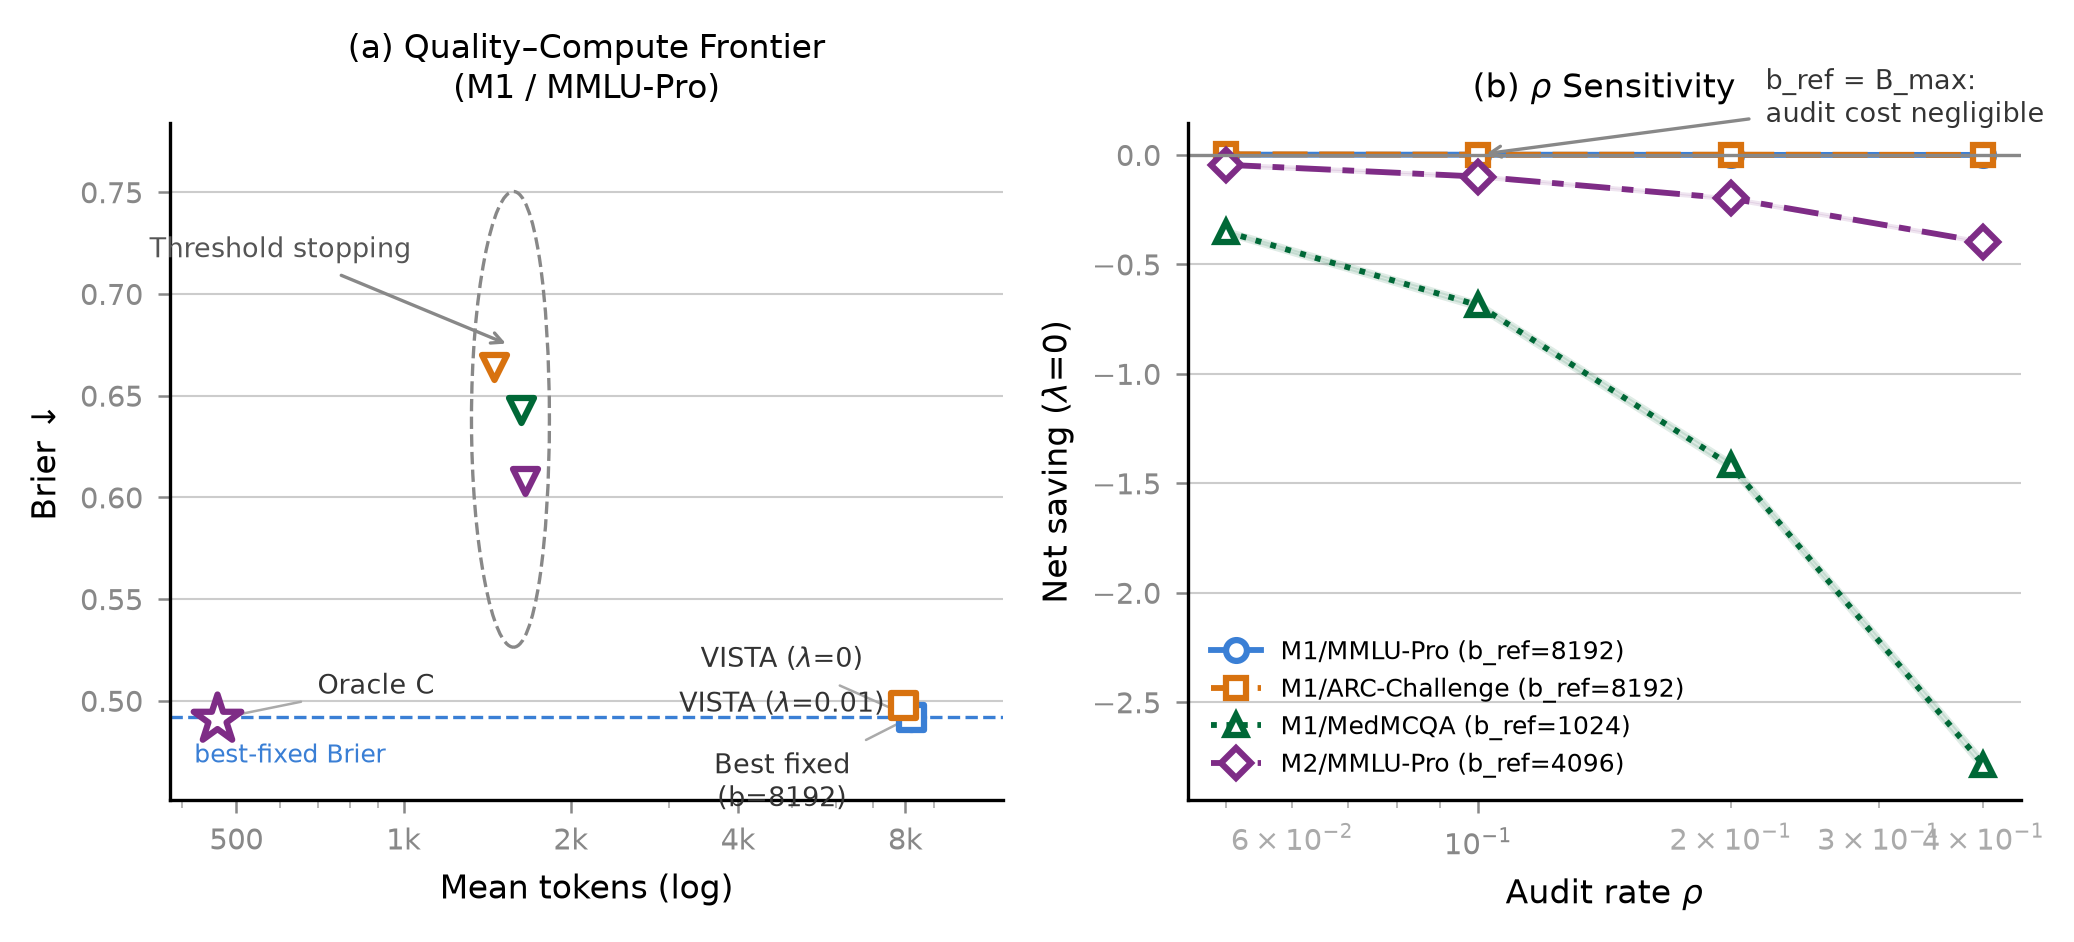
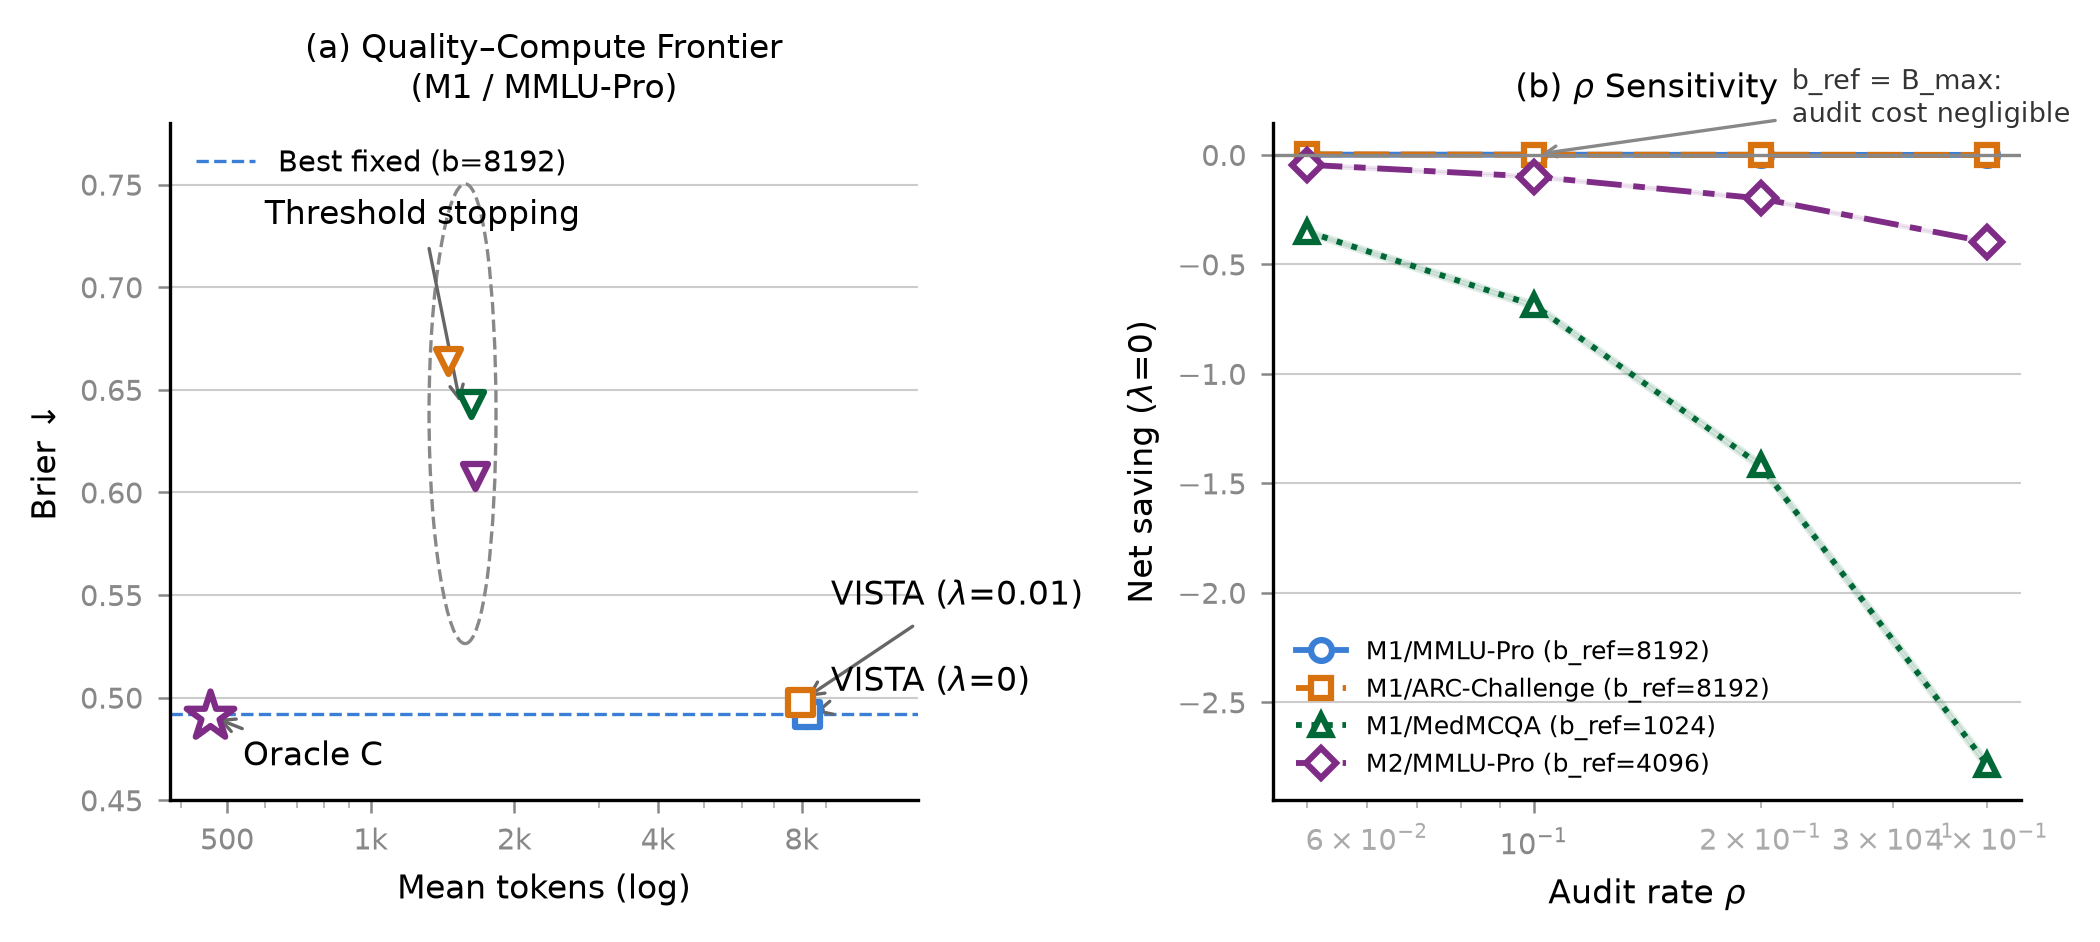
fix(fig): panel(a) label redesign — annotate+arrowprops, legend for axhline
Remove all internal text labels from panel (a). Replace with explicit
annotate() calls at user-specified data coordinates:
  - 'Threshold stopping': xy=(1550,0.64) → xytext=(600,0.735)
  - 'VISTA (λ=0.01)': xy=(7931,0.498) → xytext=(9200,0.545)
  - 'VISTA (λ=0)': xy=(8191,0.492) → xytext=(9200,0.503)
  - 'Oracle C': xy=(461,0.4911) → xytext=(540,0.467)
Best fixed axhline registered in legend; 'best-fixed Brier' text removed.
ylim=(0.45,0.78), xlim=(380,14000). Save with bbox_inches='tight'.
mvtcs.bib deepseekr1 already fixed (year=2025, doi without prefix).

Claude-Session: https://claude.ai/code/session_019oJJMoqXDBDEdjjn8k838V

diff --git a/figures/fig_frontier_audit.py b/figures/fig_frontier_audit.py
@@ -137,75 +137,65 @@ ell = Ellipse(
 )
 ax_a.add_patch(ell)
 
-# Annotation for threshold cluster — text kept below y=0.73
+# --- horizontal dashed line — registered in legend instead of inline text ---
+best_brier = 0.492
+best_line = ax_a.axhline(
+    best_brier, color='#3a7fd5', linewidth=0.8, linestyle='--',
+    zorder=2, label='Best fixed (b=8192)',
+)
+
+# --- all text labels as explicit annotate+arrowprops ---
+# Threshold stopping cluster
 ax_a.annotate(
     'Threshold stopping',
-    xy=(cx, max(ty) + 0.010),
-    xytext=(600, 0.718),
-    xycoords='data',
-    textcoords='data',
-    fontsize=6.5,
-    color='#555555',
-    arrowprops=dict(
-        arrowstyle='->',
-        color='#888888',
-        lw=0.8,
-    ),
-    ha='center',
+    xy=(1550, 0.64), xytext=(600, 0.735),
+    xycoords='data', textcoords='data',
+    arrowprops=dict(arrowstyle='->', lw=0.8, color='0.4'),
+    fontsize=8, ha='left', va='center',
 )
 
-# --- horizontal dashed line at best-fixed Brier ---
-best_brier = 0.492
-ax_a.axhline(best_brier, color='#3a7fd5', linewidth=0.8, linestyle='--', zorder=2)
-ax_a.text(
-    420, best_brier - 0.013,
-    'best-fixed Brier',
-    fontsize=6, color='#3a7fd5', ha='left', va='top',
+# VISTA (λ=0.01) — right-side, above
+ax_a.annotate(
+    r'VISTA ($\lambda$=0.01)',
+    xy=(7931, 0.498), xytext=(9200, 0.545),
+    xycoords='data', textcoords='data',
+    arrowprops=dict(arrowstyle='->', lw=0.8, color='0.4'),
+    fontsize=8, ha='left',
 )
 
-# --- individual labels (all in data coordinates to avoid crowding) ---
-# Right-side cluster (x≈8000) stacked vertically at x≈4800;
-# Oracle C annotated close to its point.
-label_specs = [
-    # (xy_data, xytext_data, label_text, ha, va)
-    ((8192, 0.492),  (4800, 0.476),  'Best fixed\n(b=8192)',   'center', 'top'),
-    ((8191, 0.492),  (4800, 0.520),  r'VISTA ($\lambda$=0)',    'center', 'center'),
-    ((7931, 0.498),  (4800, 0.498),  r'VISTA ($\lambda$=0.01)', 'center', 'center'),
-    ((461,  0.4911), (700,  0.507),  'Oracle C',                'left',   'center'),
-]
-for (xy_d, xytext_d, lbl, ha2, va2) in label_specs:
-    ax_a.annotate(
-        lbl,
-        xy=xy_d,
-        xytext=xytext_d,
-        xycoords='data',
-        textcoords='data',
-        fontsize=6.5,
-        ha=ha2, va=va2,
-        color='#333333',
-        arrowprops=dict(
-            arrowstyle='-',
-            color='#aaaaaa',
-            lw=0.6,
-            shrinkA=2, shrinkB=3,
-        ),
-    )
+# VISTA (λ=0) — right-side, below λ=0.01 label
+ax_a.annotate(
+    r'VISTA ($\lambda$=0)',
+    xy=(8191, 0.492), xytext=(9200, 0.503),
+    xycoords='data', textcoords='data',
+    arrowprops=dict(arrowstyle='->', lw=0.8, color='0.4'),
+    fontsize=8, ha='left',
+)
+
+# Oracle C — close annotation below-right
+ax_a.annotate(
+    'Oracle C',
+    xy=(461, 0.4911), xytext=(540, 0.467),
+    xycoords='data', textcoords='data',
+    arrowprops=dict(arrowstyle='->', lw=0.8, color='0.4'),
+    fontsize=8, ha='left',
+)
+
+# Legend: axhline entry only (scatter points identified by annotations above)
+ax_a.legend(
+    [best_line], ['Best fixed (b=8192)'],
+    loc='upper left', fontsize=7, frameon=False,
+)
 
 # --- axes ---
 ax_a.set_xlabel('Mean tokens (log)')
 ax_a.set_ylabel('Brier ↓')
 ax_a.set_title('(a) Quality–Compute Frontier\n(M1 / MMLU-Pro)', fontsize=8)
 
-# y range: show all points with margin
-all_brier_vals = [p['brier'] for p in points]
-y_lo = min(all_brier_vals) - 0.04
-y_hi = max(all_brier_vals) + 0.12
-ax_a.set_ylim(y_lo, y_hi)
-
 style_ax(ax_a)
-# Keep log scale x with explicit ticks to avoid crowded auto-labels
 ax_a.set_xscale('log')
-ax_a.set_xlim(380, 12000)
+ax_a.set_ylim(0.45, 0.78)
+ax_a.set_xlim(380, 14000)
 ax_a.set_xticks([500, 1000, 2000, 4000, 8000])
 ax_a.set_xticklabels(['500', '1k', '2k', '4k', '8k'])
 ax_a.tick_params(axis='x', which='minor', length=2, width=0.4, colors='#aaaaaa')
@@ -310,7 +300,7 @@ out_dir = os.path.dirname(__file__)
 pdf_path = os.path.join(out_dir, 'fig_frontier_audit.pdf')
 png_path = os.path.join(out_dir, 'fig_frontier_audit.png')
 
-fig.savefig(pdf_path, dpi=300)
-fig.savefig(png_path, dpi=300)
+fig.savefig(pdf_path, bbox_inches='tight', dpi=300)
+fig.savefig(png_path, bbox_inches='tight', dpi=300)
 print(f"Saved: {pdf_path}")
 print(f"Saved: {png_path}")
